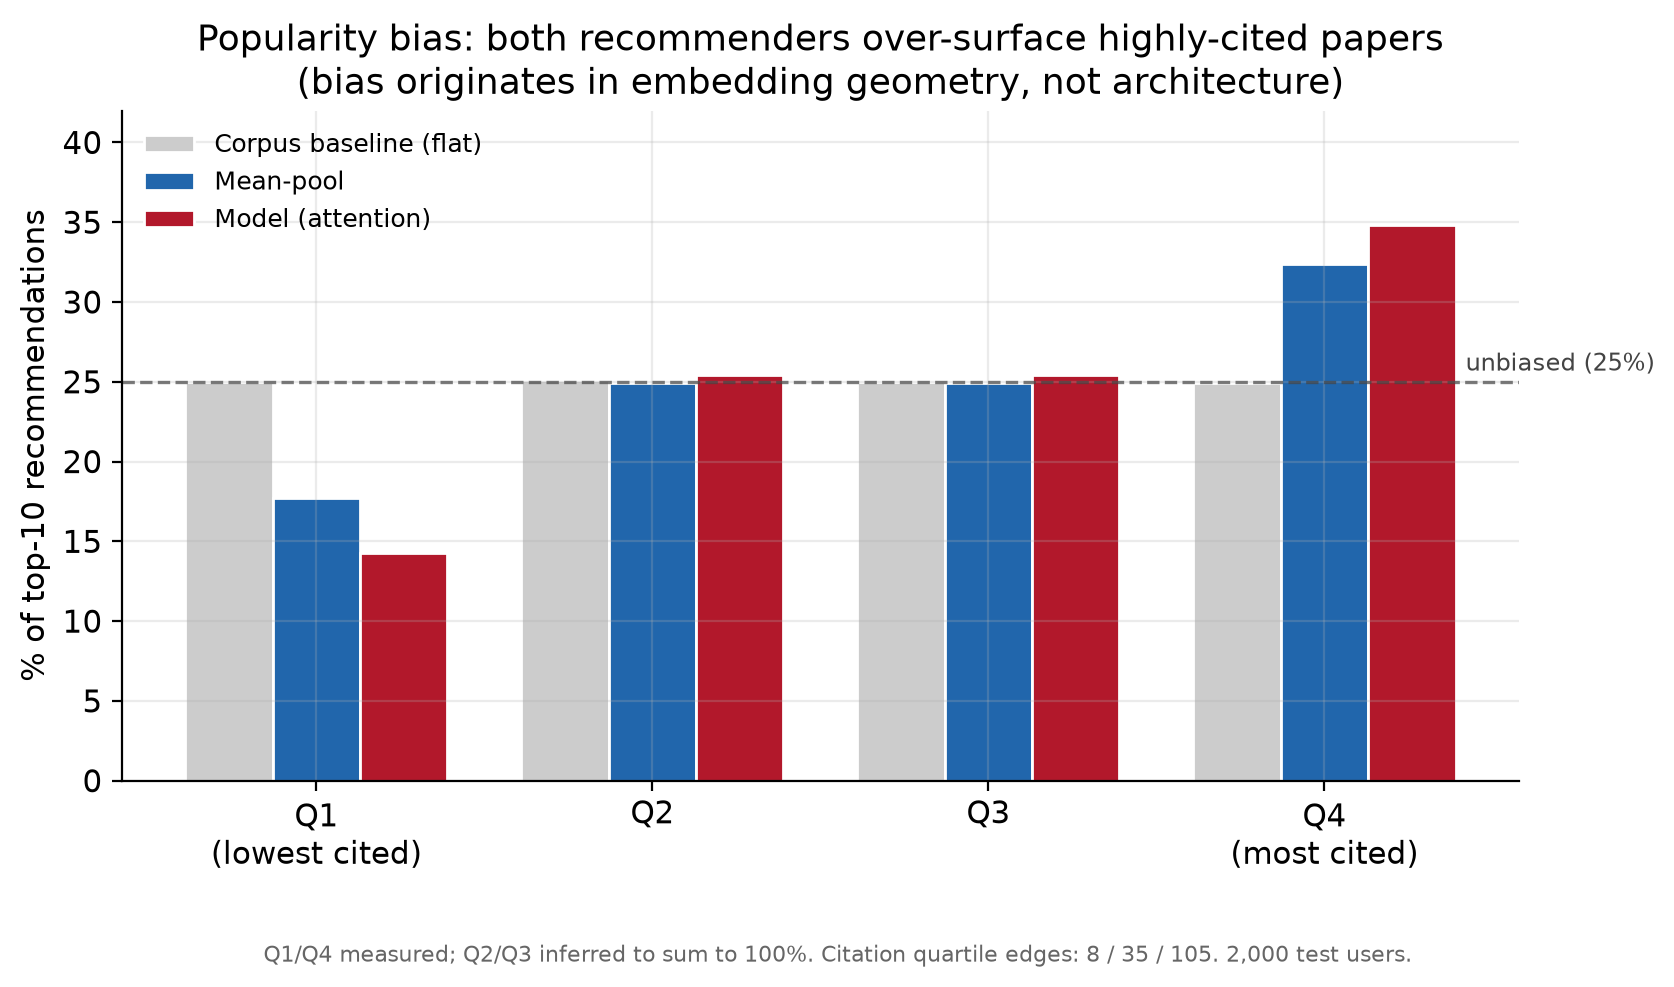
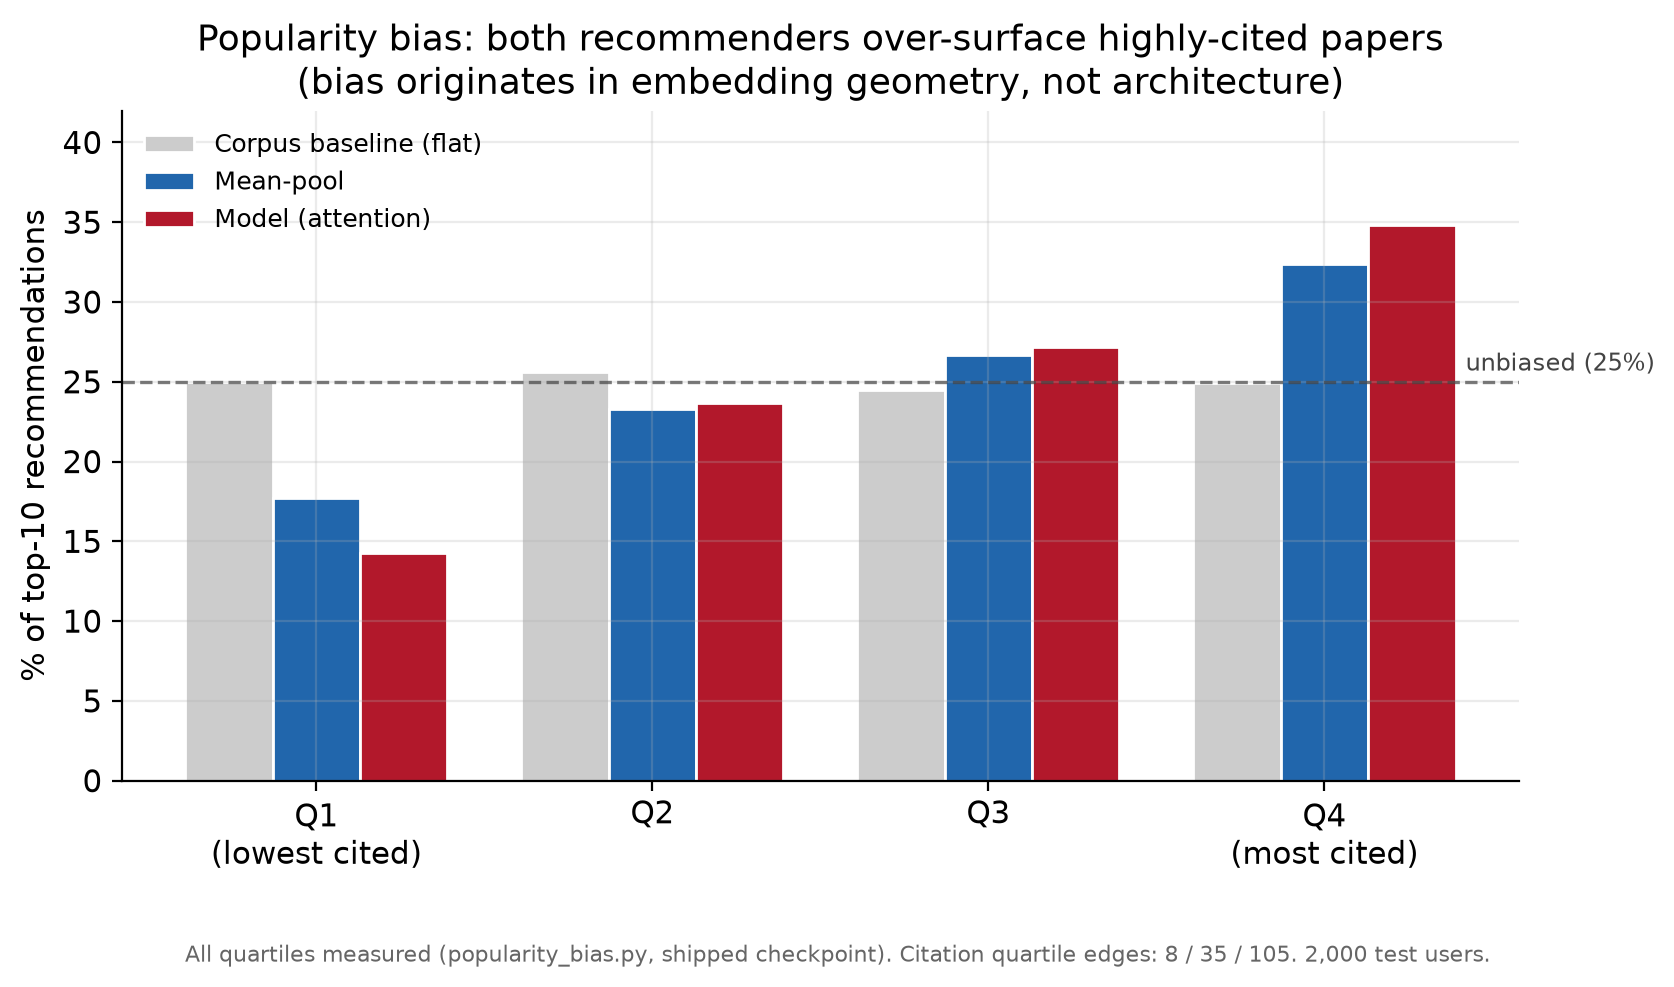
Correct the loss-scale story and remaining doc/code inconsistencies
- Rewrite ABLATION.md's "On the loss scale": train-loss trajectories are
  identical to the third decimal across all three runs, so the 5x val
  gap cannot mean the sampler changed the objective. Probed the shipped
  checkpoint on the full val split: shipped chain-guarded protocol gives
  0.103 (dropping 60% of rows on the chain-ordered loader), unguarded
  roll negatives give 0.380 — the logged 0.314 matches the unguarded
  regime, i.e. same-chain false negatives, not task difficulty. Residual
  attribution to the legacy 0.065 is stated as a hypothesis since that
  code/checkpoints are not in the repo. The within-run overfitting
  signal is unaffected. Provenance note updated: the 5x signature still
  identifies the runs, but not for the reason previously claimed.
- Replace inferred Q2/Q3 popularity-bias values with measured ones
  (rerun of popularity_bias.py: model 23.7/27.2, mean-pool 23.3/26.7,
  corpus 25.6/24.5); regenerate the figure and show all four quartiles
  in the README table.
- Reframe eval_projected_space.py's docstring to match ABLATION.md
  Experiment 4 (raw-space search correct by construction; projected
  search is the alternative under test), including the observed result.
- Drop cold_start_eval.py's stale claim that the corpus's
  s2FieldsOfStudy column is null locally (artifact of the deleted
  fastparquet venv; pyarrow reads it fine).

Changed region(s): [[0.1243, 0.9422, 0.8698, 0.9726], [0.5281, 0.3343, 0.6834, 0.3951], [0.3106, 0.3647, 0.4659, 0.4255]]

diff --git a/scripts/eval/eval_projected_space.py b/scripts/eval/eval_projected_space.py
@@ -1,20 +1,22 @@
 """
-THE TEST: has the model been fine all along, and every eval just searched the
-WRONG SPACE?
+Experiment 4 (ABLATION.md): rule out a space mismatch between user
+fingerprints and the paper index.
 
-The ablation proved the model lives in a PROJECTED coordinate space (drop the
-projection -> score collapses to random). But the FAISS/eval index is built from
-RAW, un-projected paper vectors. So we've been querying a raw-space index with a
-projected-space fingerprint -- a space mismatch, same disease as the norm bug.
+The projection was trained to map user-history vectors TOWARD raw paper
+embeddings -- the positives and negatives in the triplet loss are raw cache
+vectors -- so searching the raw paper index should be correct by
+construction. This script tests the alternative anyway, because "you
+evaluated in the wrong space" is the first objection anyone raises when a
+trained model loses to an average: push every paper vector through the same
+trained projection and search projected-against-projected.
 
-Fix under test: push EVERY paper vector through the trained projection layer too,
-so query and index share the learned geometry. Then re-run the 4-way eval in that
-shared projected space.
+  * projected-space search improves things -> the eval had a space bug and
+    every prior number is suspect.
+  * projected-space search degrades or collapses -> raw-space search was
+    correct all along, and the space-mismatch explanation is eliminated.
 
-  * model NOW beats mean-pool -> the model was never broken; the EVAL was.
-    Every 0.009 -> 0.014 number this week was measured in the wrong space.
-  * model STILL loses -> the projected space genuinely isn't better; the model
-    really is worse than averaging and we stop torturing it.
+Observed result (see ABLATION.md, Experiment 4): projected-space search
+collapsed to 0.0000. Raw-space search was correct.
 
 TORCH ONLY. No faiss. No retraining.
 """

diff --git a/scripts/data_collection/make_plots.py b/scripts/data_collection/make_plots.py
@@ -176,14 +176,14 @@ def fig_training_curves():
 
 # =============================================================================
 # 3. POPULARITY BIAS  (citation-quartile skew)
-#    NOTE: only Q1 and Q4 were recorded in the audit. Q2/Q3 are INFERRED to sum
-#    to 100% (split evenly) and the figure says so. Swap in real values if found.
+#    All four quartiles measured by rerunning popularity_bias.py against the
+#    shipped checkpoint (2,000 test users, quartile edges 8 / 35 / 105).
 # =============================================================================
 def fig_popularity_bias():
     quartiles = ["Q1\n(lowest cited)", "Q2", "Q3", "Q4\n(most cited)"]
-    model    = [14.3, 25.45, 25.45, 34.8]   # Q2/Q3 inferred
-    meanpool = [17.7, 24.95, 24.95, 32.4]   # Q2/Q3 inferred
-    corpus   = [25.0, 25.1,  25.0,  24.9]   # ~flat baseline
+    model    = [14.3, 23.7, 27.2, 34.8]
+    meanpool = [17.7, 23.3, 26.7, 32.4]
+    corpus   = [25.0, 25.6, 24.5, 24.9]   # ~flat baseline
 
     x = np.arange(len(quartiles))
     w = 0.26
@@ -206,7 +206,7 @@ def fig_popularity_bias():
     ax.set_ylim(0, 42)
 
     fig.text(0.5, -0.06,
-             "Q1/Q4 measured; Q2/Q3 inferred to sum to 100%. "
+             "All quartiles measured (popularity_bias.py, shipped checkpoint). "
              "Citation quartile edges: 8 / 35 / 105. 2,000 test users.",
              ha="center", fontsize=8, color="#666666")
     fig.tight_layout()

diff --git a/scripts/eval/cold_start_eval.py b/scripts/eval/cold_start_eval.py
@@ -21,8 +21,7 @@ DESIGN (locked):
 GEOMETRY: model outputs unit-norm fingerprints; paper matrix + centroids unit-
 norm. Every query vector is L2-normalized before topk_by_l2. Non-negotiable.
 
-Categories load from the FLAT paper_categories.parquet (paperId -> list[str]),
-NOT the local corpus's s2FieldsOfStudy (that nested column is null locally).
+Categories load from the FLAT paper_categories.parquet (paperId -> list[str]).
 """
 
 import os

diff --git a/ABLATION.md b/ABLATION.md
@@ -337,14 +337,36 @@ Early stopping fired at 4 epochs. The shipped `best.pt` is not the final epoch,
 verified by direct weight comparison against `last.pt` rather than by trusting the
 filename.
 
-**On the loss scale.** The absolute train/val gap is large because of the hard
-negatives, not the overfitting. Discriminating a CS paper from another CS paper is
-a far harder triplet task than discriminating it from a random Medicine paper, so
-the loss scale is not comparable to a random-negative run. The two superseded runs
-in `results/legacy/` are exactly that comparison: same data, same architecture,
-random negatives, and they plateau around val 0.065 — roughly 5x lower. That
-difference is the clearest evidence available that the hard-negative sampler
-changed the objective it was meant to change.
+**On the loss scale.** I originally read the 5x gap between this run's val loss
+(~0.32) and the legacy runs' (~0.065) as evidence that the chain-guarded sampler
+had made the triplet objective harder. The logs contradict that story. The
+train-loss trajectories of all three runs are identical to the third decimal
+(epoch 1: 0.0498 / 0.0497 / 0.0498; epoch 4: 0.0444 / 0.0444 / 0.0443) — a
+sampler that changed the objective would have moved the loss actually being
+optimized, and it didn't. The entire 5x difference lives in validation, which
+points at the validation-negative protocol, not the objective.
+
+Probing the shipped checkpoint against the val split localizes it further. The
+shipped `evaluate_cached` (chain-guarded negatives) yields 0.103 — not the
+logged 0.314 — and on the chain-ordered, unshuffled val loader the guard drops
+60% of rows because whole batches share one chain. Unguarded roll negatives on
+the same weights yield 0.380. The logged 0.314 is consistent with a mostly
+unguarded validation protocol saturated with same-chain false negatives —
+triplets whose "negative" comes from the anchor's own chain, pinning the loss
+near the margin — and inconsistent with the shipped guarded code. Normalizing
+the geometry moves the number by less than 0.002, so geometry is not the
+driver either.
+
+What I cannot do is finish the attribution: the exact code that produced
+either logged validation series is not in this repository (the legacy runs'
+training code and checkpoints are gone), so the residual gap to 0.065 —
+plausibly a shuffled-vs-ordered val loader turning roll negatives from easy
+cross-chain samples into same-chain false negatives — remains a hypothesis,
+stated as one.
+
+None of this touches what the section actually relies on: the within-run
+comparison. Protocol held fixed, train falls while validation rises after
+epoch 1. That is the overfitting signal, and it survives.
 
 **Mitigation.** Early stopping. No regularization sweep.
 
@@ -378,8 +400,11 @@ model I had evaluated.
 I resolved it by forensics rather than by reading a filename:
 
 - The hard-negative run has a val loss around 0.32 against roughly 0.065 for the
-  random-negative runs. Same data, same architecture, 5x separation. The objective
-  changed, so the loss scale changed, and that signature identifies the run.
+  random-negative runs. Same data, same architecture, 5x separation — a
+  fingerprint that identifies which log is which. (The separation turned out to
+  reflect differing validation-negative protocols rather than a changed training
+  objective — see "On the loss scale" — but as an identifying signature it works
+  regardless of its cause.)
 - The hard-negative run stopped at 4 epochs with validation rising after epoch 1,
   so early stopping must have fired and `best.pt` must differ from `last.pt`. The
   random-negative runs ran a full 8 epochs with validation still falling at the

diff --git a/README.md b/README.md
@@ -231,11 +231,11 @@ meaningful. The weakness is in the user tower, not the representations.
 **Popularity-bias audit.** Citation quartiles (edges at 8 / 35 / 105 citations),
 top-10 recommendations across 2,000 test users.
 
-| | Top quartile | Bottom quartile |
-|---|---|---|
-| Corpus baseline | 24.9% | 25.0% |
-| Attention model | 34.8% | 14.3% |
-| Mean-pool | 32.4% | 17.7% |
+| | Q1 (least cited) | Q2 | Q3 | Q4 (most cited) |
+|---|---|---|---|---|
+| Corpus baseline | 25.0% | 25.6% | 24.5% | 24.9% |
+| Attention model | 14.3% | 23.7% | 27.2% | 34.8% |
+| Mean-pool | 17.7% | 23.3% | 26.7% | 32.4% |
 
 Both methods over-surface highly cited papers by a similar margin, so the bias
 originates in the embedding geometry rather than the architecture. Highly cited
